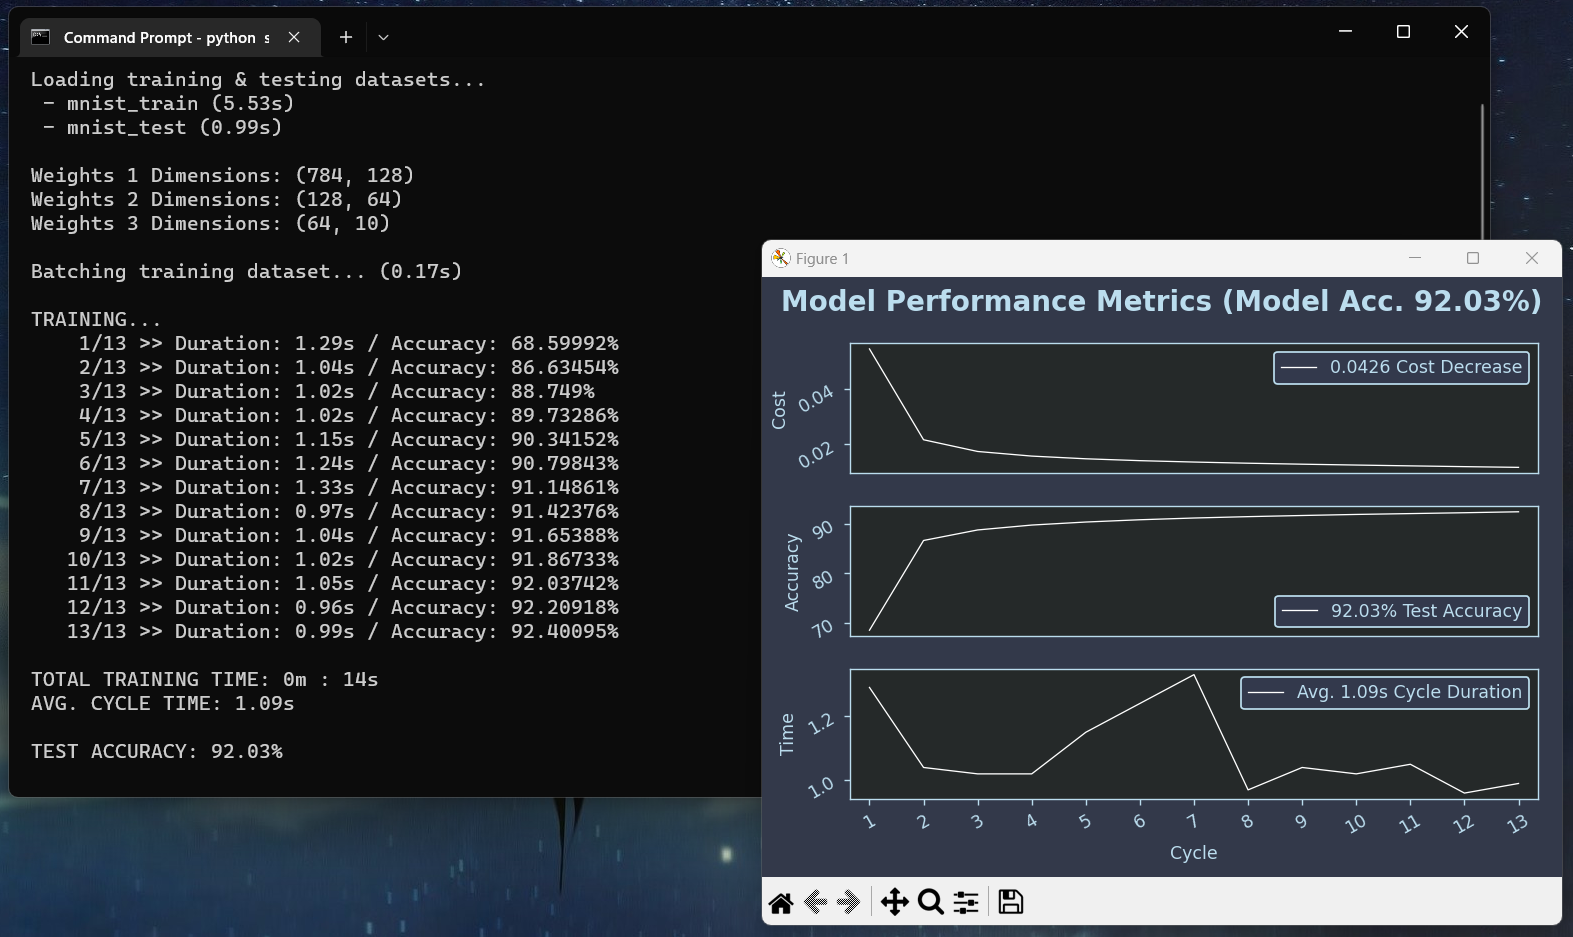
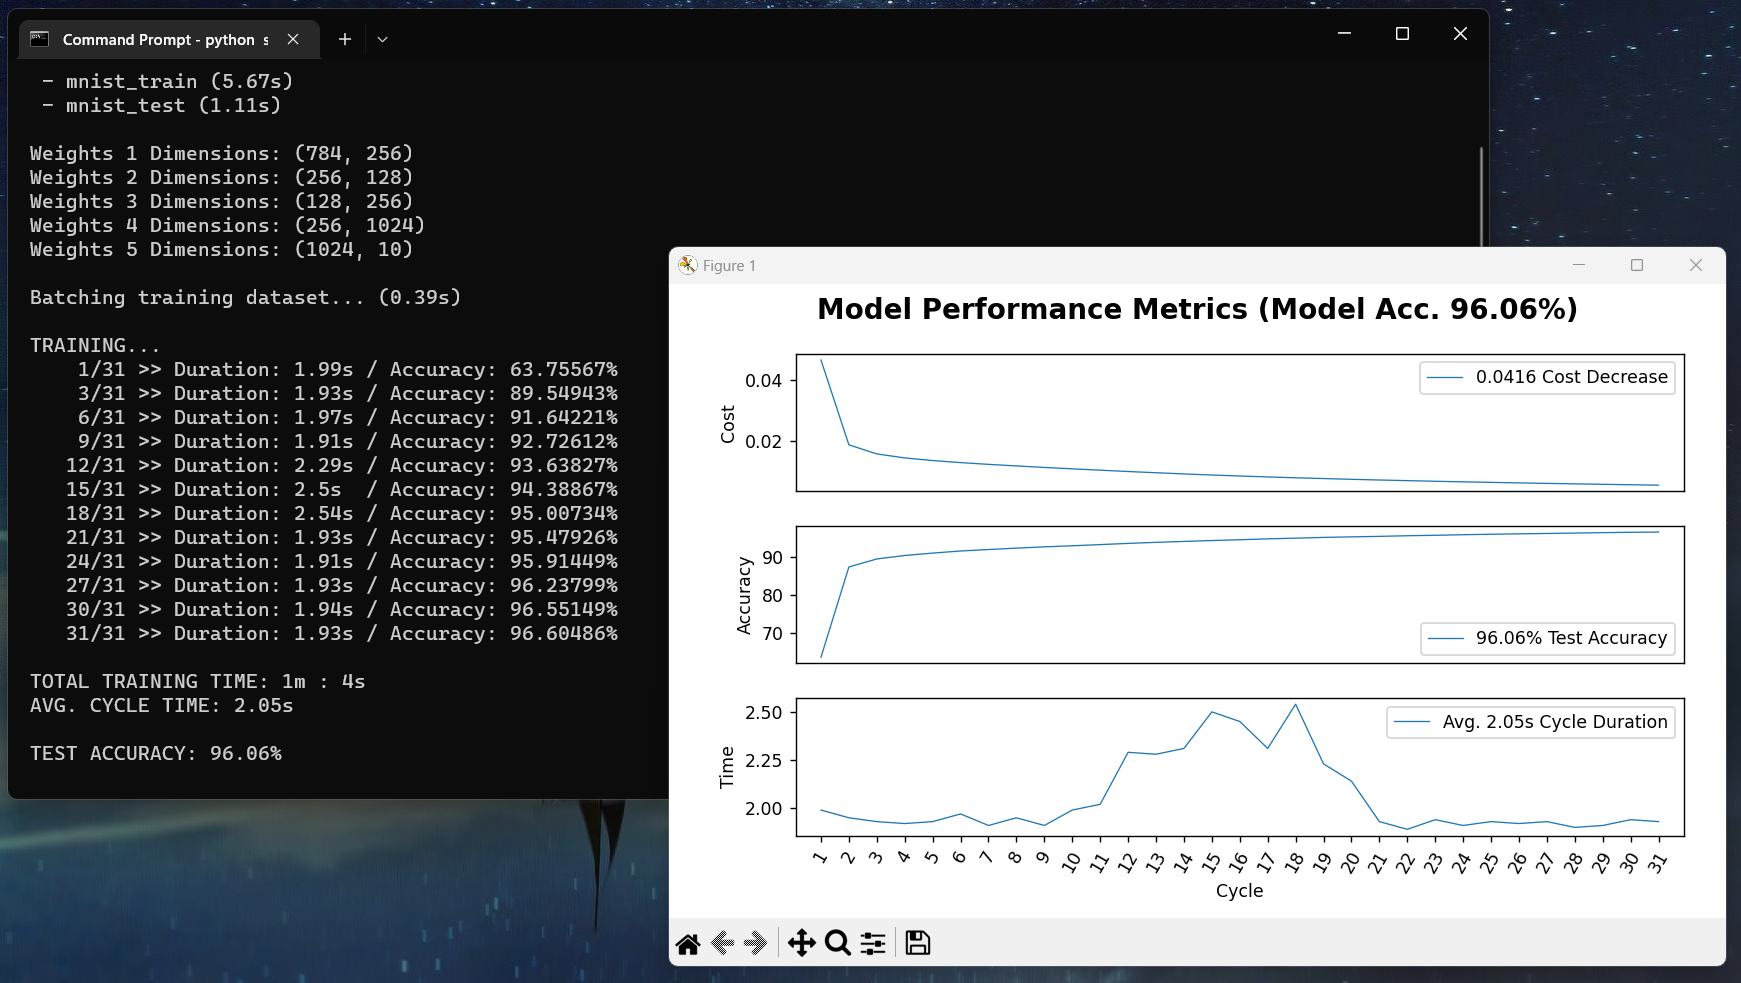
Update

diff --git a/simplest-nn.py b/simplest-nn.py
@@ -84,14 +84,14 @@ def plot_lines(test_acc, data):
 			f'Avg. {blas.around(blas.mean(plot_data), 2)}s Cycle Duration'
 		]
 		p.plot(range(1, len(plot_data) + 1), plot_data, label=lbls[i], linewidth=0.75)
-		for l in ['x', 'y']: p.tick_params(axis=l, rotation=30)
+		p.tick_params(axis='x', rotation=60)
+		# for l in ['x', 'y']: p.tick_params(axis=l, rotation=45)
 		p.set(ylabel=plot_title)
 		p.margins(x=0.03, y=0.05)
 		p.legend(loc='best')
 		if plot_title == 'Time': p.set(xlabel='Cycle')
 		else: p.set_xticks([])
 	plt.xticks(np.arange(1, len(data[0]['data'])+1, 1))
-	plt.yticks(rotation=30)
 	plt.show()
 
 def show_predictions(test_imgs, predictions, model_acc):
@@ -102,7 +102,7 @@ def show_predictions(test_imgs, predictions, model_acc):
 	imgs = imgs.reshape([15, 28, 28])
 	fig, axs = plt.subplots(3, 5)
 	plt.suptitle(f' MNIST Model Predictions (Model Acc. {model_acc}%)', fontsize=16, fontweight='bold')
-	fig.subplots_adjust(top=0.85, bottom=0.05, left=0.05, right=0.95, hspace=0.5, wspace=0.5)
+	fig.subplots_adjust(top=0.85, bottom=0.05, left=0.05, right=0.95, hspace=0.5, wspace=0.75)
 	for row in range(3):
 		for col in range(5):
 			p = axs[row,col]
@@ -157,7 +157,7 @@ def train(train_x, train_y, layers, cycles, lr):
 		cycle_start = time.time()
 		cost, acc = 0, 0
 		for b,batch in enumerate(cycle_batches):
-			if cycle==0 and b==17: cycle_start = train_start = time.time()
+			if cycle==0 and b==31: cycle_start = train_start = time.time()
 			output = forward(batch[0], weights)
 			error = output[-1][1] - batch[1]
 			backward(batch[0], error, weights, output, lr)
@@ -184,12 +184,12 @@ def test(x, y, weights):
 
 if __name__ == "__main__":
 	os.system('cls' if os.name == 'nt' else 'clear')
-	print(f" Welcome to the simplest neural network possible... that's still useful.")
+	print(f" Welcome to the simplest MNIST neural network possible... that's still useful.")
 
 	train_x, train_y, test_x, test_y = load_data()
 
-	layers = [64,32]
-	cycles = 5
+	layers = [256,128,256,1024]
+	cycles = 31
 	learning_rate = 0.007
 
 	stats = train(train_x, train_y, layers, cycles, learning_rate)

diff --git a/simplest-nn-oo.py b/simplest-nn-oo.py
@@ -82,14 +82,13 @@ def plot_lines(test_acc, data):
 			f'Avg. {blas.around(blas.mean(plot_data), 2)}s Cycle Duration'
 		]
 		p.plot(range(1, len(plot_data) + 1), plot_data, label=lbls[i], linewidth=0.75)
-		for l in ['x', 'y']: p.tick_params(axis=l, rotation=30)
+		for l in ['x', 'y']: p.tick_params(axis=l, rotation=45)
 		p.set(ylabel=plot_title)
 		p.margins(x=0.03, y=0.05)
 		p.legend(loc='best')
 		if plot_title == 'Time': p.set(xlabel='Cycle')
 		else: p.set_xticks([])
 	plt.xticks(np.arange(1, len(data[0]['data'])+1, 1))
-	plt.yticks(rotation=30)
 	plt.show()
 
 def show_predictions(test_imgs, predictions, model_acc):
@@ -100,7 +99,7 @@ def show_predictions(test_imgs, predictions, model_acc):
 	imgs = imgs.reshape([15, 28, 28])
 	fig, axs = plt.subplots(3, 5)
 	plt.suptitle(f' MNIST Model Predictions (Model Acc. {model_acc}%)', fontsize=16, fontweight='bold')
-	fig.subplots_adjust(top=0.85, bottom=0.05, left=0.05, right=0.95, hspace=0.5, wspace=0.5)
+	fig.subplots_adjust(top=0.85, bottom=0.05, left=0.05, right=0.95, hspace=0.5, wspace=0.75)
 	for row in range(3):
 		for col in range(5):
 			p = axs[row,col]
@@ -166,7 +165,7 @@ class Net:
 			cycle_start = time.time()
 			cost, acc = 0, 0
 			for b,batch in enumerate(batches[cycle]):
-				if cycle==0 and b==17: cycle_start = train_start = time.time()
+				if cycle==0 and b==31: cycle_start = train_start = time.time()
 				output = self.forward(batch[0])
 				error = output - batch[1]
 				self.backward(batch[0], error)
@@ -249,7 +248,7 @@ class Softmax(Layer):
 
 if __name__ == "__main__":
 	os.system('cls' if os.name == 'nt' else 'clear')
-	print(f" Welcome to the simplest neural network possible... that's still useful.")
+	print(f" Welcome to the simplest MNIST neural network possible... that's still useful.")
 
 	train_x, train_y, test_x, test_y = load_data()
 
